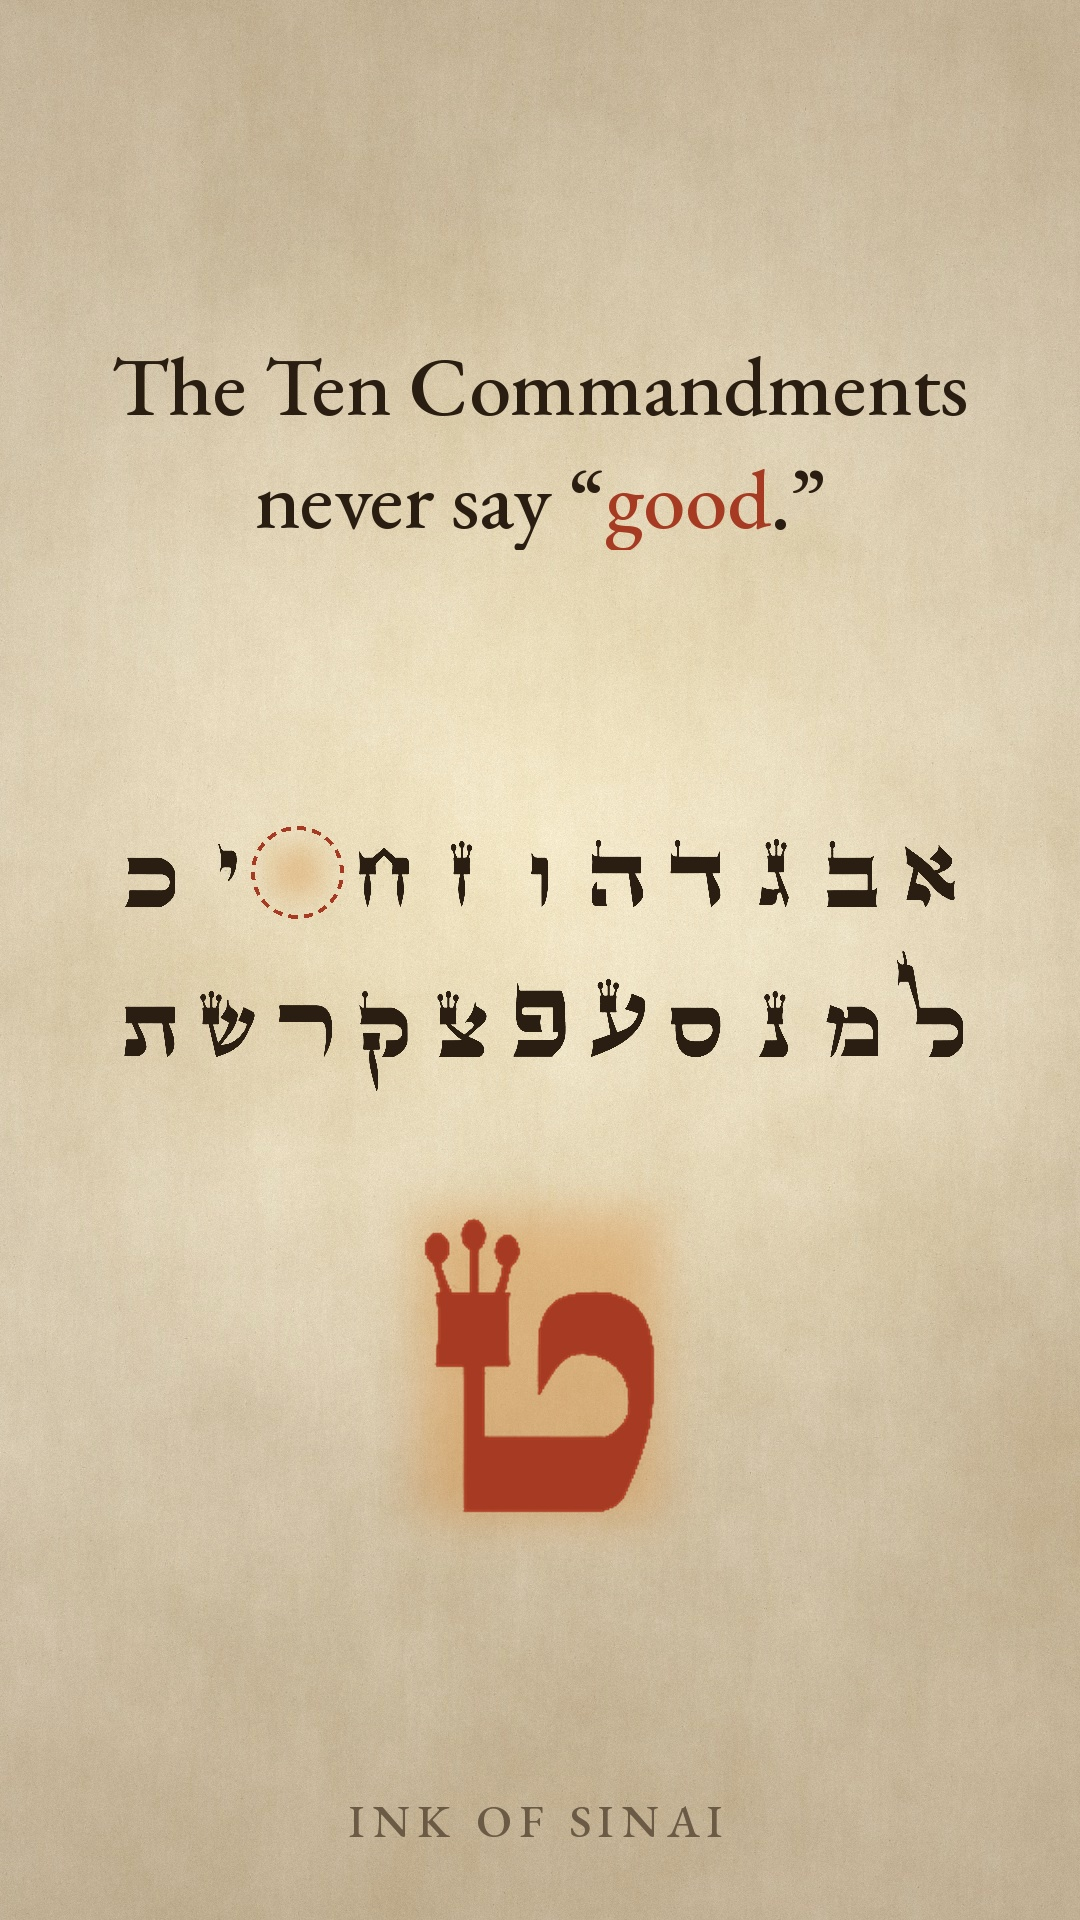
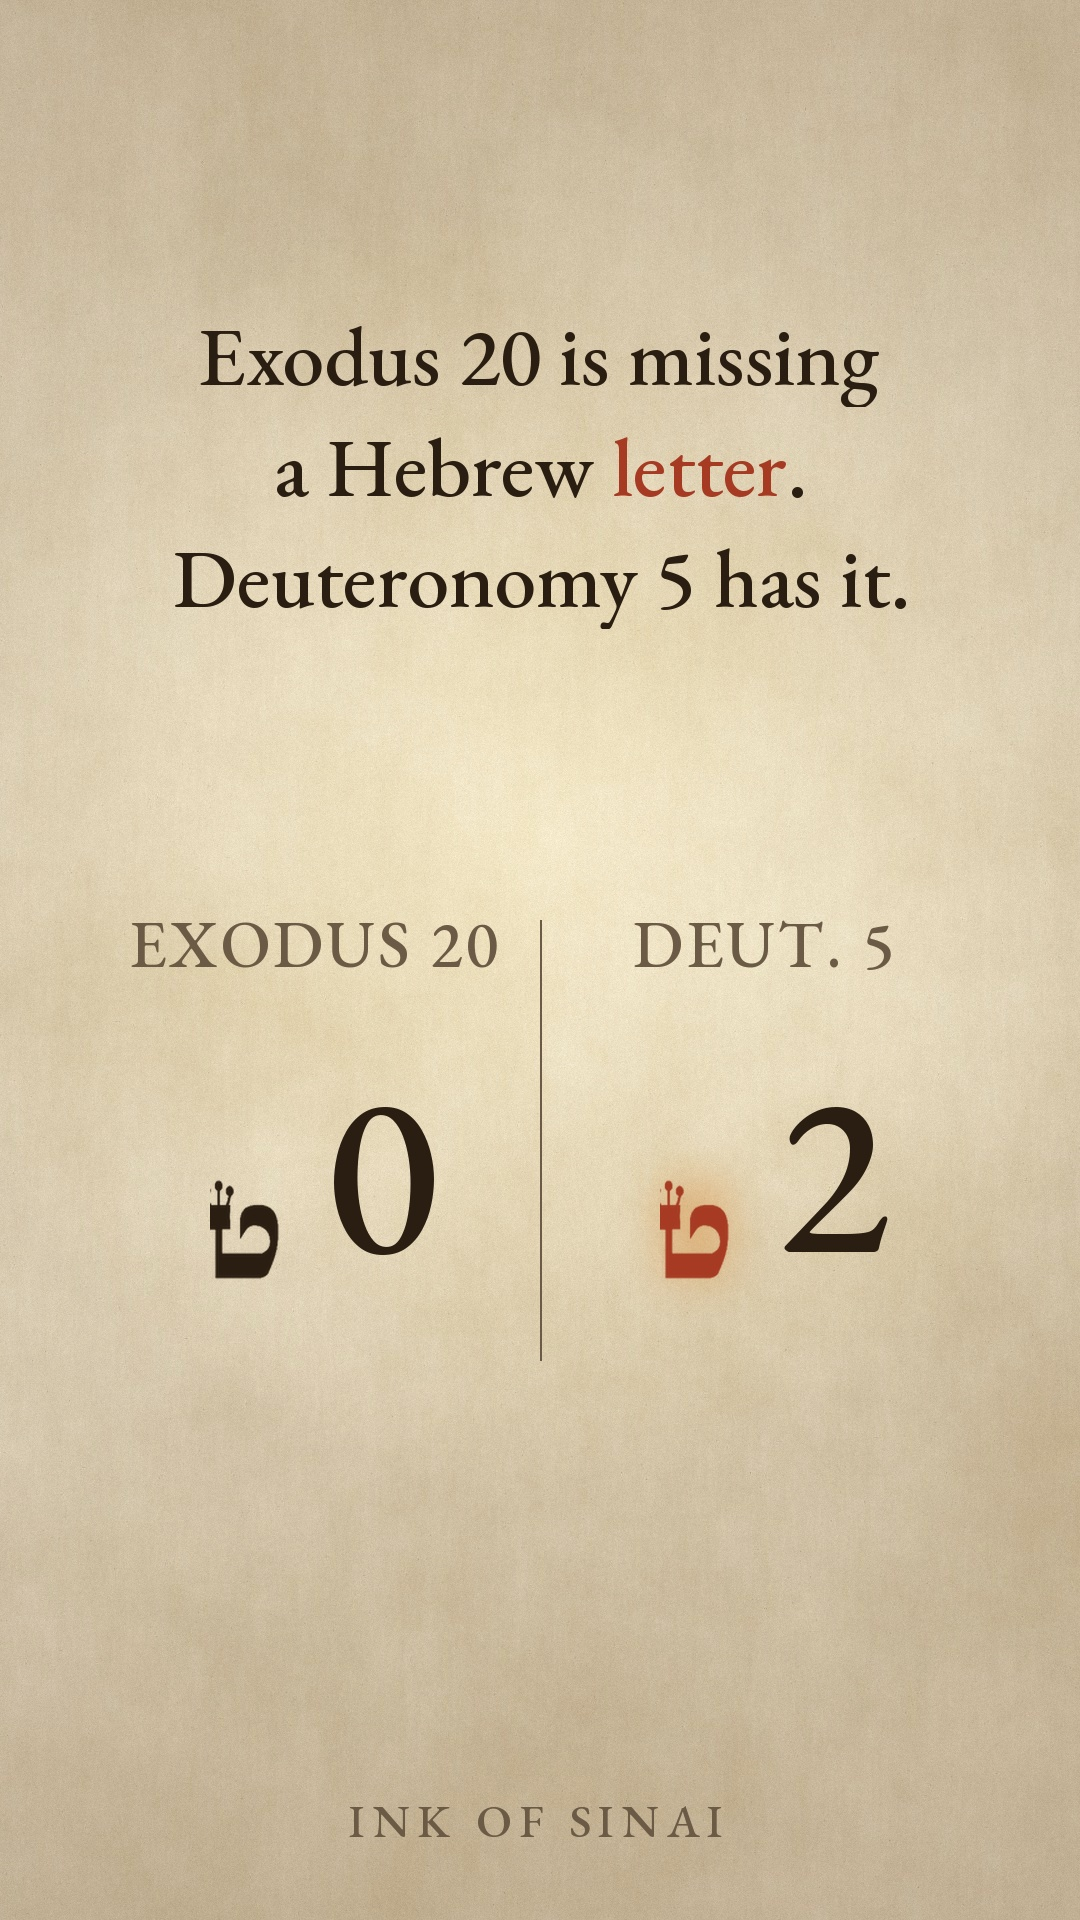
s19: cover and copy rebuilt around the missing and returning letter

diff --git a/_research/sfx_engine/cover19.py b/_research/sfx_engine/cover19.py
@@ -6,15 +6,12 @@ from build_v26 import *
 c = PLATE.copy()
 def put(it, y, t=99.0):
     ink = ink_dx(it); it.draw(c, (W - it.w) // 2 + ink, y, t); return y + it.h
-y = 330
-y = put(Line('The Ten Commandments', 84, 0), y)
-y = put(Line([('never say “', INK), ('good', RED), ('.”', INK)], 84, 0), y + 6)
-al = Alphabet(0, 'hole', k=1.0); al.tc = -10     # circle fully drawn
-y2 = 800
-al.draw(c, (W - al.w) // 2, y2, 99.0)
-tp = Pop(big_teth, 0); put(tp, 1140)
+y = 300
+y = put(Line('Exodus 20 is missing', 84, 0), y)
+y = put(Line([('a Hebrew ', INK), ('letter', RED), ('.', INK)], 84, 0), y + 4)
+y = put(Line('Deuteronomy 5 has it.', 84, 0), y + 4)
+sc = Score(0); sc.draw(c, (W - sc.w) // 2, 900, 99.0)
 d = ImageDraw.Draw(c); f = font(46)
 tw = sum(f.getlength(ch) + 8 for ch in 'INK OF SINAI'); xx = 540 - tw / 2
 for ch in 'INK OF SINAI': d.text((xx, 1790), ch, font=f, fill=(*MUTED, 255)); xx += f.getlength(ch) + 8
 c.convert('RGB').save('sb/s19_cover.jpg', quality=95)
-im = c.convert('RGB'); im.resize((360, 640)).save('/tmp/cov_small.png'); im.crop((0, 240, 1080, 1680)).resize((270, 360)).save('/tmp/cov_grid.png')

diff --git a/_research/shorts/s19_packaging.md b/_research/shorts/s19_packaging.md
@@ -1,5 +1,5 @@
 YOUTUBE SHORTS TITLE
-Exodus 20’s Ten Commandments Are Missing a Hebrew Letter
+What Moses Adds When He Repeats the Ten Commandments
 
 YOUTUBE DESCRIPTION
 Same text as the Instagram / TikTok caption below. No related video to set (this Short is not cut from a long-form).
@@ -8,17 +8,17 @@ TAGS
 ten commandments, ten commandments hebrew, 10 commandments hebrew, ten commandments in hebrew, 10 commandments jewish, ten commandments explained, exodus 20, exodus 20 explained, deuteronomy 5, hebrew letter teth, hebrew alphabet, hebrew bible, torah, bible study
 
 INSTAGRAM / TIKTOK CAPTION (also the YouTube Short description)
-Exodus 20’s Ten Commandments never use the letter ט.
+Exodus 20 has no ט. Deuteronomy 5 has two.
 
 Exodus 20:2–17 has 620 letters, and none of them is a ט.
 
-So the word טוֹב, “good,” can't appear in it.
+When Moses repeats the Ten Commandments, the ט appears in 5:15 and 5:16.
 
-Deuteronomy 5 repeats the commandments, and the ט comes in twice (5:15 and 5:16).
+The second version adds: “so that it may go well with you.”
 
 Send this to someone who knows the Ten Commandments by heart.
 
 #tencommandments #hebrewbible #torah #bible #biblestudy
 
 COVER
-s19_cover.jpg (1080×1920). Text: "The Ten Commandments / never say “good.”" with "good" in red; the alphabet with the empty ט slot circled, and a red ט under it.
+s19_cover.jpg (1080x1920). Text: "Exodus 20 is missing / a Hebrew letter. / Deuteronomy 5 has it." ("letter" in red) over the video's own 0 ט | 2 ט scoreboard.
